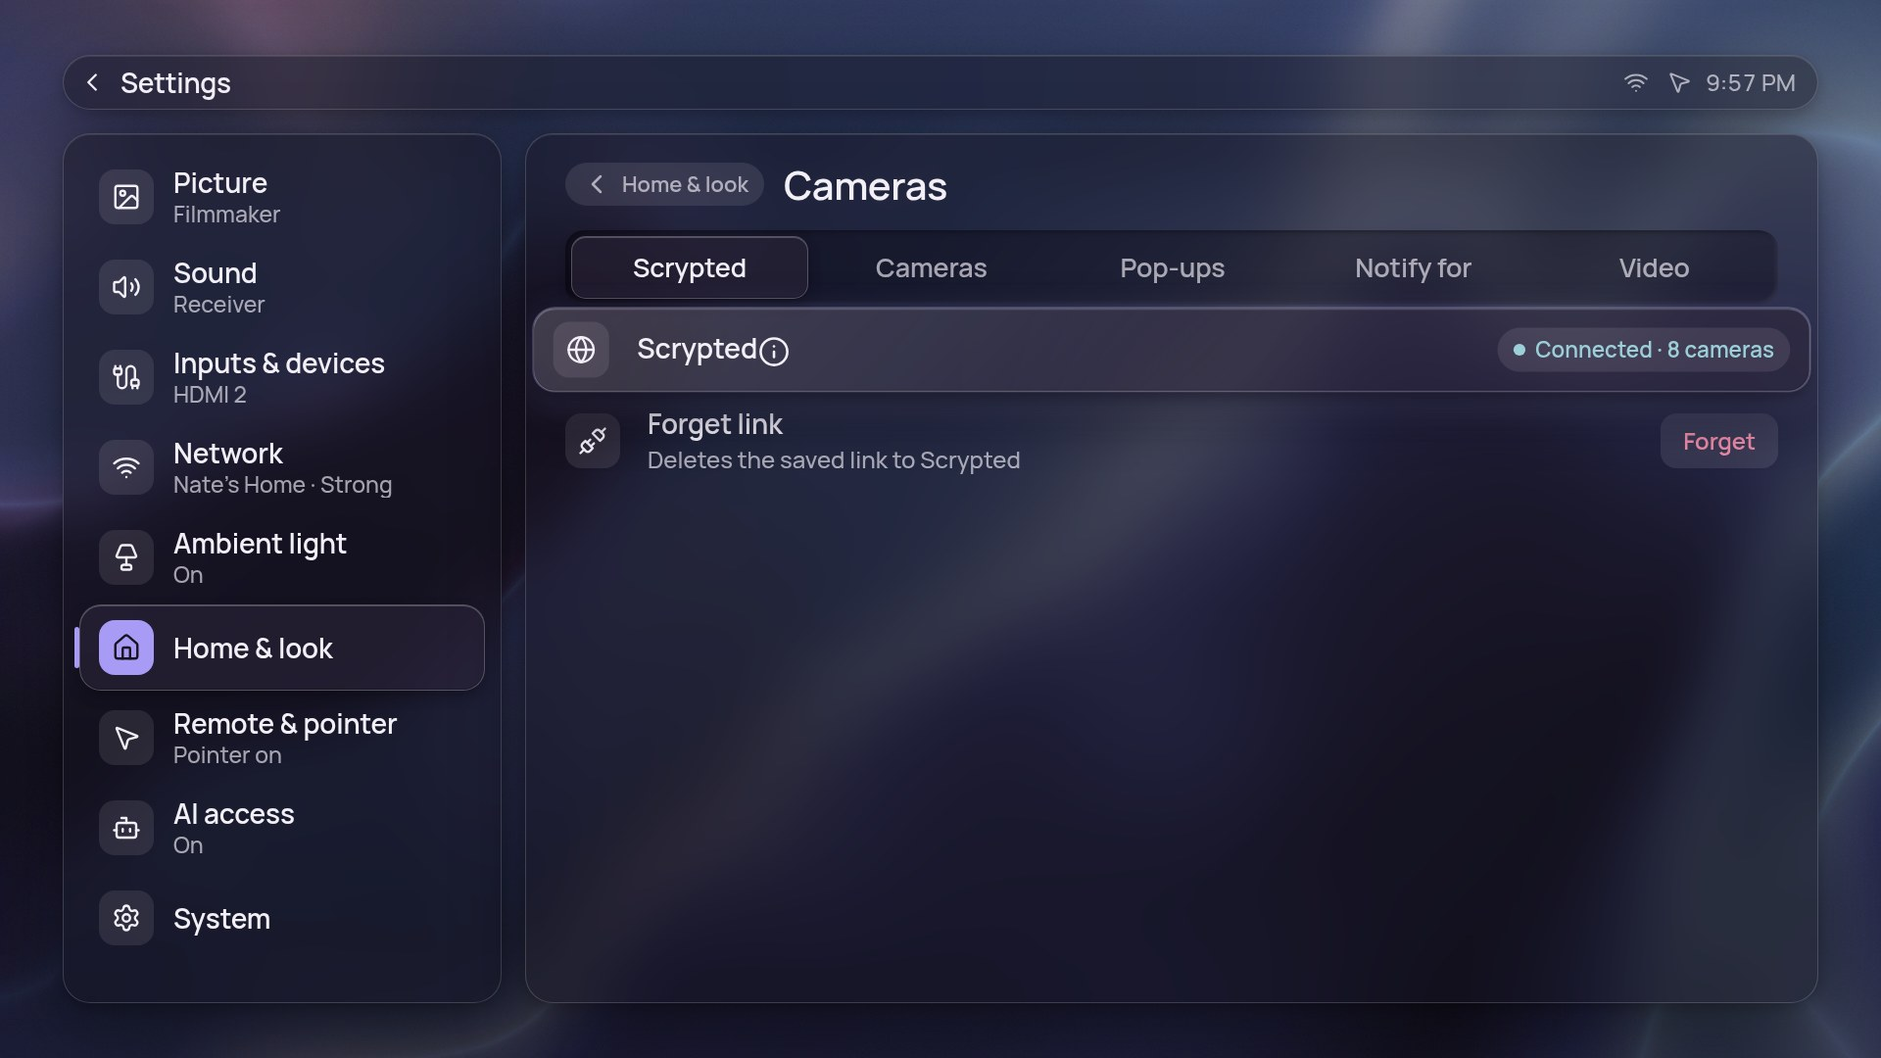
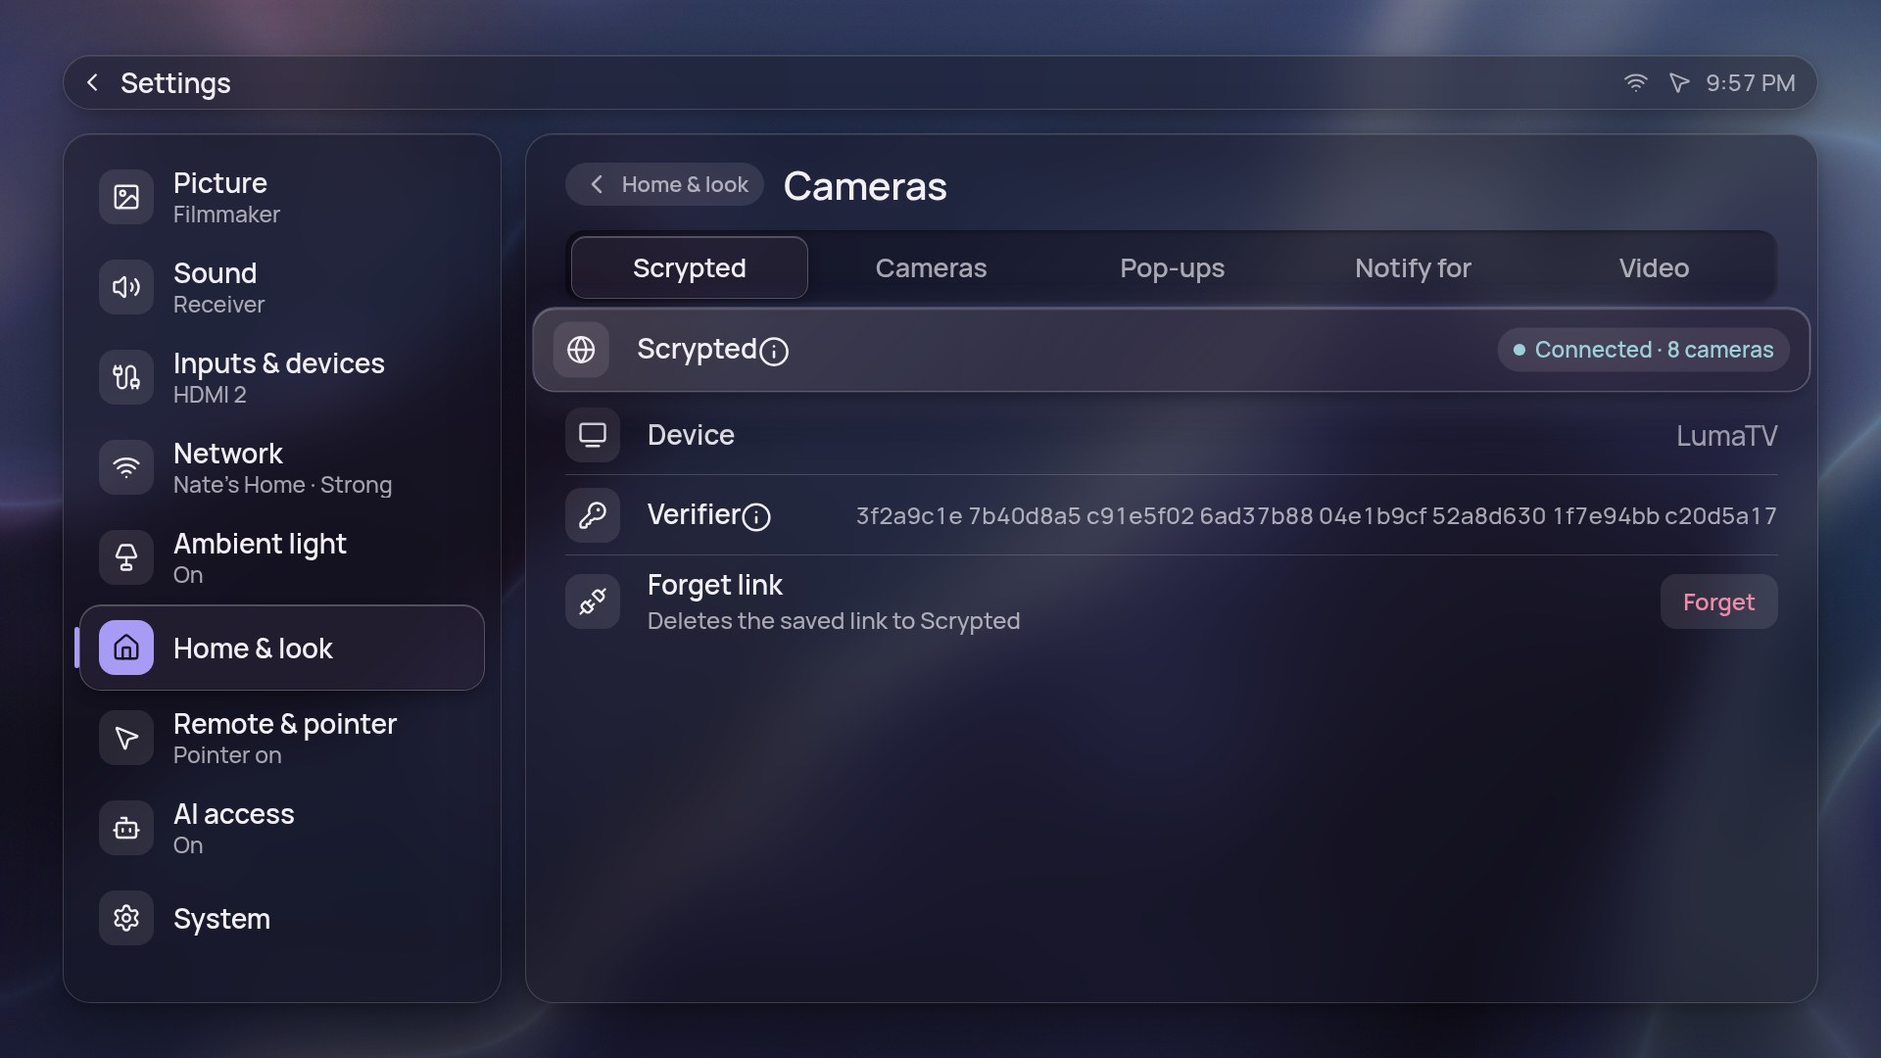
Cameras: an update of the event on the pop-up changes its words and end; the spec words the bridge's errors and shows the device name and verifier
The old pop-up takes an update (same id) as the same card with new words and a new end, and reads an event's age on the bridge's clock. The UI spec gains the words of a refusal, a stream with no resolution, a picture-less card, and the Scrypted tab's Device and Verifier rows; the mocks show them (settings, settings-refused, a picture-less event card).

Changed region(s): [[0.3125, 0.3972, 0.9375, 0.6111], [0.875, 0.55, 0.9375, 0.5806], [0.875, 0.3972, 0.9375, 0.4278]]

diff --git a/docs/mocks/cameras-scrypted/index.html b/docs/mocks/cameras-scrypted/index.html
@@ -117,6 +117,9 @@
   .card .shot .len { position: absolute; right: 12px; bottom: 12px; padding: 2px 12px; border-radius: 999px; background: var(--glass-video); color: var(--lu-ink); font-size: calc(22px * var(--ts)); font-weight: 600; }
   .card .l1 { margin-top: 10px; font-size: calc(26px * var(--ts)); font-weight: 600; line-height: 1.3; display: -webkit-box; -webkit-box-orient: vertical; -webkit-line-clamp: 2; overflow: hidden; }
   .card .l2 { font-size: calc(22px * var(--ts)); font-weight: 500; line-height: 1.3; color: var(--lu-ink-2); display: -webkit-box; -webkit-box-orient: vertical; -webkit-line-clamp: 2; overflow: hidden; }
+  .card .shot.none { background: var(--tile-ink-wash); display: grid; place-items: center; }
+  .card .shot.none .big { display: block; width: 72px; height: 72px; color: var(--lu-ink-2); }
+  .card .shot.none .big .ic { width: 72px; height: 72px; }
   .card.focus { transform: scale(1.03); }
   .card.focus .shot { border-color: var(--lu-edge-raised); box-shadow: var(--shadow-raised), var(--focus-halo); }
   .card.focus .l1 { color: var(--lu-ink); }
@@ -153,6 +156,13 @@
   .st.settings .row .d { font-size: calc(24px * var(--ts)); }
   .st.settings .tab { font-size: calc(27px * var(--ts)); min-height: 64px; height: auto; padding: 0 12px; }
   .st.settings .page-head h1 { font-size: calc(40px * var(--ts)); }
+  /* the verifier: 64 digits in groups of 8, tabular, wrapping by group so none is cut at any text size */
+  .chip.danger { color: var(--lu-danger-readable); }
+  .vf { max-width: calc(560px * var(--ts)); text-align: right; font-size: calc(24px * var(--ts)); font-weight: 500; line-height: 1.35; color: var(--lu-ink-2); }
+  .vf span { display: inline-block; white-space: nowrap; }
+  .vrow .text { flex: none; }
+  .vrow .t { white-space: nowrap; }
+  .vrow .vf { flex: 1 1 0; min-width: 0; max-width: none; }
 </style>
 </head>
 <body>
@@ -233,8 +243,8 @@
 
   /* ---------------- events / clips ---------------- */
   function cards(list, focus) {
-    return list.map((c, i) => `<div class="card${i === focus ? ' focus' : ''}"><div class="shot pic" ${cam(c.pic, c.pos)}>
-      <span class="cbadge">${ic(KIND[c.kind][0])}</span>${c.len ? `<span class="len num">${c.len}</span>` : ''}</div>
+    return list.map((c, i) => `<div class="card${i === focus ? ' focus' : ''}"><div class="shot ${c.pic ? 'pic' : 'none'}" ${c.pic ? cam(c.pic, c.pos) : ''}>
+      ${c.pic ? `<span class="cbadge">${ic(KIND[c.kind][0])}</span>` : `<span class="big">${ic(KIND[c.kind][0])}</span>`}${c.len ? `<span class="len num">${c.len}</span>` : ''}</div>
       <div class="l1">${c.l1}</div><div class="l2 num">${c.l2}</div></div>`).join('');
   }
   function sheet(title, tab, list, focus) {
@@ -246,7 +256,7 @@
     { kind: 'person', l1: 'Person', l2: '2:31 PM · 6 min ago', pic: 'game', pos: '25% 50%' },
     { kind: 'doorbell', l1: 'Doorbell rang', l2: '1:58 PM · 39 min ago', pic: 'wall', pos: '50% 40%' },
     { kind: 'animal', l1: 'Animal · Domestic Cat', l2: '12:12 PM · 2 h ago', pic: 'home', pos: '60% 50%' },
-    { kind: 'vehicle', l1: 'Vehicle', l2: '10:44 AM · 4 h ago', pic: 'still', pos: '20% 60%' },
+    { kind: 'vehicle', l1: 'Vehicle', l2: '10:44 AM · 4 h ago' },
     { kind: 'package', l1: 'Package', l2: '9:05 AM · 5 h ago', pic: 'game', pos: '80% 50%' },
   ];
   const CLIPS = [
@@ -292,9 +302,11 @@
   /* ---------------- settings pages ---------------- */
   const RAIL_HOME = () => '<nav class="pane rail" data-open="home"></nav>';
   const topbar = '<div class="pane topbar"><i data-ic="chevron-left" class="ic"></i><span class="title">Settings</span><span class="spacer"></span><span class="status"><i data-ic="wifi"></i><i data-ic="mouse-pointer-2"></i></span><span class="time num">9:57 PM</span></div>';
-  const row = (icn, t, val, extra) => `<div class="row${extra && extra.focus ? ' focusable focus' : ''}"><div class="lead">${ic(icn)}</div><div class="text"><div class="t">${t}${extra && extra.info ? '<i data-ic="info" class="info"></i>' : ''}</div>${extra && extra.d ? `<div class="d">${extra.d}</div>` : ''}</div>${val}</div>`;
+  const row = (icn, t, val, extra) => `<div class="row${extra && extra.focus ? ' focusable focus' : ''}${extra && extra.cls ? ' ' + extra.cls : ''}"><div class="lead">${ic(icn)}</div><div class="text"><div class="t">${t}${extra && extra.info ? '<i data-ic="info" class="info"></i>' : ''}</div>${extra && extra.d ? `<div class="d">${extra.d}</div>` : ''}</div>${val}</div>`;
   const tog = on => `<div class="toggle" role="switch" aria-checked="${on}"></div>`;
   const chev = t => `<div class="v">${t || ''}${ic('chevron-right')}</div>`;
+  const VERIFIER = '3f2a9c1e 7b40d8a5 c91e5f02 6ad37b88 04e1b9cf 52a8d630 1f7e94bb c20d5a17'.split(' ');
+  const verifier = `<div class="vf num">${VERIFIER.map(g => `<span>${g}</span>`).join(' ')}</div>`;
   const tabs = (names, sel) => `<div class="tabs">${names.map((n, i) => `<div class="tab" aria-selected="${i === sel}">${n}</div>`).join('')}</div>`;
   function page(title, inner, back) { return `${topbar}${RAIL_HOME()}<main class="pane page"><div class="page-head">${back ? `<span class="chip">${ic('chevron-left')}${back}</span>` : ''}<h1>${title}</h1></div><div class="page-body">${inner}</div></main>`; }
   const TABS = ['Scrypted', 'Cameras', 'Pop-ups', 'Notify for', 'Video'];
@@ -326,6 +338,15 @@
     case 'settings': video = false; backdrop = 'wall';
       html = `<div class="st on settings"><div class="wall fill"></div>` + page('Cameras', tabs(TABS, 0) + `<div class="rows">
         ${row('globe', 'Scrypted', `<div class="v"><span class="chip on"><i class="dot"></i>Connected · 8 cameras</span></div>`, { focus: true, info: true })}
+        ${row('tv-minimal', 'Device', `<div class="v">LumaTV</div>`)}
+        ${row('key-round', 'Verifier', verifier, { info: true, cls: 'vrow' })}
+        ${row('unplug', 'Forget link', `<span class="btn small danger">Forget</span>`, { d: 'Deletes the saved link to Scrypted' })}
+        </div>`, 'Home &amp; look') + '</div>'; break;
+    case 'settings-refused': video = false; backdrop = 'wall';
+      html = `<div class="st on settings"><div class="wall fill"></div>` + page('Cameras', tabs(TABS, 0) + `<div class="rows">
+        ${row('globe', 'Scrypted', `<div class="v"><span class="chip danger"><i class="dot"></i>Refused</span></div>`, { focus: true, info: true })}
+        ${row('tv-minimal', 'Device', `<div class="v">LumaTV</div>`)}
+        ${row('key-round', 'Verifier', verifier, { info: true, cls: 'vrow' })}
         ${row('unplug', 'Forget link', `<span class="btn small danger">Forget</span>`, { d: 'Deletes the saved link to Scrypted' })}
         </div>`, 'Home &amp; look') + '</div>'; break;
     case 'settings-notify': video = false; backdrop = 'wall';

diff --git a/payload/compositor/lumatv/panels/Cameras.qml b/payload/compositor/lumatv/panels/Cameras.qml
@@ -91,7 +91,16 @@ Item {
     }
     onPopupTopicChanged: {
         if (popupUp && (!popupTopic || popupTopic.id !== shownId)) hidePopup(false)   // cleared elsewhere, or replaced
+        else if (popupUp) retake()
         consider()
+    }
+    // An `update` of the event on the card (the recorder named what it saw, the detector is surer) is the same pop-up again with new words and
+    // maybe a new end: the card changes its words and is not shown again (the bridge: "never a new card").
+    function retake() {
+        popup = popupTopic
+        tick()
+        ends.interval = Math.max(500, popupTopic.untilMs - Date.now())
+        ends.restart()
     }
     // Do not disturb: a PIN, an alert, the keyboard or a panel arrives while the card is up and it steps aside, without telling the helper (it is
     // not dismissed): it is due again, and comes back when the host is free if its time (`untilMs`) is not over.
@@ -189,9 +198,11 @@ Item {
         return p.label && String(p.label).toLowerCase() !== p.kind ? w + " \u00b7 " + p.label : w
     }
     property string ago: ""
+    // an event's `at` is the bridge's clock; `cameras.now_skew_ms` is the bridge's minus this TV's
+    readonly property double skew: topic && topic.now_skew_ms ? topic.now_skew_ms : 0
     function tick() {
         if (!popup) { ago = ""; return }
-        var s = Math.max(0, Math.round((Date.now() - popup.at) / 1000))
+        var s = Math.max(0, Math.round((Date.now() + skew - popup.at) / 1000))
         ago = s < 60 ? "Just now" : Math.round(s / 60) + " min ago"
     }
     Timer { interval: 30000; repeat: true; running: cams.popupUp; onTriggered: cams.tick() }

diff --git a/tests/test_camera_popup.py b/tests/test_camera_popup.py
@@ -240,5 +240,31 @@ class CameraPopup(HostCase):
         self.assertEqual(self.tagged(out, "w2")[0], {"animal": "Animal", "named": "Animal \u00b7 Domestic Cat", "bell": "Doorbell rang"})
 
 
+    def test_an_update_of_the_event_on_the_card_changes_its_words_and_its_end_and_is_not_a_second_popup(self):
+        # the bridge's story: `update` carries the same id with a label or a better score; the helper publishes the same pop-up again. The steps are
+        # far enough apart that a slow poll (the host builds Home in the background) does not fold the two records into one.
+        steps = [(READY, publish("cameras", CAMERAS)),
+                 (READY + 300, popup(lasts=4500)),                                      # ends at READY + 4800
+                 (READY + 1700, "var c = %s; console.info('[u1] ' + JSON.stringify({mode: c.mode, what: c.kindWord(c.popup), shown: c.shownId, at: c.shownAt}));" % C),
+                 (READY + 2000, popup(kind="animal", label="Domestic Cat", lasts=7000)),  # the update: ends at READY + 9000
+                 (READY + 3200, "var c = %s; console.info('[u2] ' + JSON.stringify({mode: c.mode, what: c.kindWord(c.popup), shown: c.shownId, at: c.shownAt}));" % C),
+                 (READY + 6000, "var c = %s; console.info('[u3] ' + JSON.stringify({mode: c.mode, what: c.kindWord(c.popup)}));" % C)]
+        doc, out = self.run_overlay(steps, READY + 10000)
+        u1, u2, u3 = self.tagged(out, "u1")[0], self.tagged(out, "u2")[0], self.tagged(out, "u3")[0]
+        self.assertEqual((u1["mode"], u1["what"]), ("popup", "Person"), out[-2500:])
+        self.assertEqual((u2["mode"], u2["what"]), ("popup", "Animal \u00b7 Domestic Cat"), "the card up has the new words")
+        self.assertEqual((u2["shown"], u2["at"]), (u1["shown"], u1["at"]), "the same pop-up: shown once, not again")
+        self.assertEqual((u3["mode"], u3["what"]), ("popup", "Animal \u00b7 Domestic Cat"), "the original end has passed: the update's later end holds")
+        self.assertEqual(doc["mode"], "", "and it goes at the new end")
+
+    def test_how_long_ago_follows_the_bridges_clock_when_it_is_not_this_tvs(self):
+        ahead = dict(CAMERAS, now_skew_ms=180000)         # the bridge's clock is three minutes ahead: an event it stamps 175 s ahead of this clock is 5 s old
+        steps = [(READY, publish("cameras", ahead)),
+                 (READY + 300, popup(age=-175000, lasts=20000)),
+                 (READY + 1500, "var c = %s; console.info('[k1] ' + JSON.stringify({ago: c.ago}));" % C)]
+        doc, out = self.run_overlay(steps, READY + 2200)
+        self.assertEqual(self.tagged(out, "k1")[0]["ago"], "Just now", out[-2500:])
+
+
 if __name__ == "__main__":
     unittest.main()

diff --git a/docs/research/cameras-ui-spec.md b/docs/research/cameras-ui-spec.md
@@ -35,13 +35,14 @@ kept in memory, so the grid paints them in its first frame. What draws a picture
 | Source | Fields used |
 |---|---|
 | topic `cameras` | `state`, `reason`, `now_skew_ms`; per camera `id`, `name`, `room`, `online`, `live`, `recordings`, `events`, `clips`, `since`, `native`, `prebuffered`; already ordered and filtered by the `show` setting |
-| topic `cameras.popup` | `id`, `event`, `camera`, `name`, `kind`, `label`, `at`, `untilMs`, `seq`; an update re-publishes the same `id` with new words and `seq` |
+| topic `cameras.popup` | `id`, `event`, `camera`, `name`, `kind`, `label`, `at`, `untilMs`, `seq`; an event's story (`new`, `update`, `end`) has one id, which is also its picture's: an `update` re-publishes the same `id` with new words and `seq` and is never a new pop-up |
 | topic `cameras.live` | `camera`, `mode` (`live`, `playback`, `clip`), `state` (`asking`, `starting`, `playing`, `failed`, `stopped`), `reason`, `codec`, `width`, `height`, `fps`, `positionMs`, `rate`, `paused` |
-| topic `cameras.events` | the last 30 pushed events, newest first, with `phase`; `end` phases and repeats of one `id` are not cards |
+| topic `cameras.events` | the last 30 pushed events, newest first, with `phase`; one card per event `id`, from its newest `new` or `update` entry; `end` entries make no card; `score` may be absent and is not read |
 | `GET /v1/cameras/{id}/frame?w=&h=` | 200 picture, else 404 `no_picture` or 503 `not_connected`; a still is never older than 10 s |
 | `.../recordings`, `.../events`, `.../clips` | ranges, `unknown`, ticks, clips (3.4); `.../thumbnail`, `.../clip-thumbnail`, `.../events/{event}/thumbnail` for pictures |
-| `POST /v1/cameras/live`, `/playback`, `/live/stop`, `/live/pause`, `/popup/clear` | a refusal is HTTP 409 `{error: {code, message}}` and leaves the running session alone; the words are shown for 3 s |
+| `POST /v1/cameras/live`, `/playback`, `/live/stop`, `/live/pause`, `/popup/clear` | a refusal is HTTP 409 `{error: {code, message}}` and leaves the running session alone; its words (table under "Words of a refusal") are shown for 3 s |
 | `GET` and `POST /v1/settings/scrypted-cameras` | the page of 3.5; choices at `/v1/plugins/scrypted-cameras/choices/{cameras or kinds}`; forget at `POST /v1/plugins/scrypted-cameras/actions/forget` |
+| facts `plugin.scrypted-cameras.link`, `.device`, `.verifier` | the connection in words; the TV's name for the bridge's Devices group; the SHA-256 of the TV's own token as 64 hexadecimal digits (a hash, never the token, an address or the pin); the last two exist while a link does |
 
 ## The pop-up
 
@@ -80,13 +81,29 @@ The camera on the whole screen, fitted. The picture is a hole (the layer is tran
 when an app is in front, it is stills (1280 by 720, the next ask 125 ms after the last). Over an app live video is offered only when `theme.cameras.liveOverApps` is true (check C12); the strip, the sheet and
 playback are then not offered. Over Home the live stream is asked on opening and at every switch (`POST live {camera}`; the answer is the `cameras.live` topic).
 
-- **Name pill**, top left: `video`, the name, the state (the live dot and "Live", "Starting", "Recorded", "Can't play"), "2 of 8". **Info pill**, top right: `3840×2160 · H.265 · 15 fps` from the stream (`native` until it plays).
+- **Name pill**, top left: `video`, the name, the state (the live dot and "Live", "Starting", "Recorded", "Can't play"), "2 of 8". **Info pill**, top right: `3840×2160 · H.265 · 15 fps` from the stream (`native` until it plays); a member the stream does not give is left out, and with none the pill is not drawn.
   A stream that is not prebuffered says "Opens in a few seconds" while it starts. While starting and failing and when stills only, a stills backdrop shows (4 a second); a prebuffered start is black until it plays.
 - **Hints**, bottom right, only when the strip and the sheet are closed: Left and Right `video` (when there is more than one camera), Up `history` (when the camera records and live video is on), Down `list-video` (when it has
   events or clips and live video is on), OK `layout-grid` (more than one camera), Back `close`.
 - **Keys with the chrome up:** Left and Right the previous and next camera (wrapping); Up the strip; Down the sheet; OK the grid; Back, in order: a playback goes live, else the view closes. With the chrome hidden a
   key other than Back only reveals it. A new camera or a close tears the session down off the UI path (`live/stop`).
-- **Failure:** `state: failed` shows a note over a dimmed backdrop: "Can't play this camera", the reason's words, a `Try again` button (OK), Back closes. A recording that ends (`stopped`, "End of recording") asks live again by itself.
+- **Failure:** `state: failed` shows a note over a dimmed backdrop: "Can't play this camera", the reason's words, a `Try again` button (OK, which asks again at once: a stream address lives 25 to 60 s, so a retry always asks for a new one), Back closes.
+  A recording that ends (`stopped`, "End of recording") asks live again by itself. A stream the bridge ended because the device was removed shows the same note and the grid's state turns to `refused`.
+
+### Words of a refusal
+
+A refusal of a `POST` (the bridge's `error.code`, passed through by the helper) is a toast of one line for 3 s over the screen it came from; the picture goes on as it was. A code this table lacks shows the helper's own words.
+
+| Code | Words |
+|---|---|
+| `offline` (409) | The camera is offline |
+| `not_supported` (501) | No stream fits this TV |
+| `no_recording` | No recording at that time |
+| `camera_not_found` (404) | Scrypted no longer shares this camera |
+| `busy` (429) | Scrypted is busy |
+| `timeout` | Scrypted didn't answer |
+| `upstream_error` (502) | Scrypted couldn't start it |
+| `event_not_found` (404, a picture) | no words: the card has no picture and says nothing about it |
 
 ## The strip
 
@@ -111,13 +128,14 @@ Up opens it over the picture: a glass panel from the safe edges, three rows of f
 Down opens a lower pane over the picture (full view) or over the grid (`Events`, every camera). Title (the camera's name, or "Recent events"), tabs `Events` and `Clips` (the camera's own; none in the recent list), a row of cards, 352 by 198 pictures with
 the kind's glyph at the corner and, for a clip, its length; under the picture the title (two lines at most) and "2:31 PM · 6 min ago". Four cards show; a `chevron-right` says there are more; Left and Right move, Up to the tabs, Down returns,
 OK plays (a clip: `POST playback {camera, clip}`; an event with a recording: `{camera, at}` three seconds before; an event without one only turns to the camera), Back closes. Events come from `/events` for the last 24 h (up to 30, shown newest first),
-clips from `/clips`, the recent list from `cameras.events`. Pictures: `/thumbnail?at=`, `/clip-thumbnail?clip=` (the clip's id is percent-encoded), `/events/{event}/thumbnail`; a card loads its picture only when it shows.
+clips from `/clips`, the recent list from `cameras.events`. Pictures: `/thumbnail?at=`, `/clip-thumbnail?clip=` (the clip's id is percent-encoded), `/events/{event}/thumbnail`; a card loads its picture only when it shows; a picture that is gone or never came (`event_not_found`, `has_thumbnail` false, an event with no thumbnail) leaves the card as the kind's glyph on a quiet tile, never a blank or a made-up picture.
 
 ## The Settings page
 
 Home & look, Cameras; tabs `Scrypted`, `Cameras`, `Pop-ups`, `Notify for`, `Video`, drawn from the schema of 3.5 (`PluginRows` rules: bool is a switch, integer a slider, a list of choices rows with a check, the order picked shown as a number).
 
-- **Scrypted:** the connection (chip with the state's words, "Connected · 8 cameras") with its help behind the info mark ("Linked from a shell on the TV with `lumatv-helper scrypted-link`"), and `Forget link` (a second OK, "Sure?", six seconds, as the Home Assistant page).
+- **Scrypted:** the connection (chip with the state's words, "Connected · 8 cameras") with its help behind the info mark ("Linked from a shell on the TV with `lumatv-helper scrypted-link`"); while a link exists, `Device` (the TV's name) and `Verifier` (its 64 digits in groups of 8, tabular, second ink, wrapping by group so that none is cut at 200 % text), whose help says where they go ("Type this name and verifier into the bridge's Devices in Scrypted. The verifier is a hash; the token never leaves the TV.");
+  and `Forget link` (a second OK, "Sure?", six seconds, as the Home Assistant page). With no link the chip says "Not linked" and there are no other rows. `refused` shows the same rows with the chip in the danger tone: the TV is not (or no longer) in the bridge's Devices, and the name and verifier are what to add again.
 - **Notify for:** one row per camera with the kinds as its value ("Person, Doorbell", "Off"), opening a page with a switch per kind (Person, Vehicle, Animal, Package, Doorbell, Motion); defaults person and doorbell. The page is rebuilt when `revision` changes.
 - **Video:** `Live quality` Full, Medium, Low and `Grid` Light, Balanced, Smooth as two-to-three option segments.
 
@@ -132,6 +150,7 @@ Axis at 2:37 PM, 12-hour: 15 min "2:24 PM", "2:27 PM", "2:30 PM", "2:33 PM", "2:
 24 h "4:00 PM", "8:00 PM", "12:00 AM", "4:00 AM", "8:00 AM", "12:00 PM". Ticks fall on the local clock.
 
 Gaps: with `ranges` [now-50 min, now-10 min] and [now-8 min, now], `unknown` [now-10 min, now-8 min] in a 1 h window ending now, the only gap is the first 10 minutes; with `since` = now-50 min there is none; the part of a window after now is no gap.
+Update: a pop-up shown with id 41 (person), then a record with id 41 (animal, label "Domestic Cat", later `untilMs`): the card up reads "Animal · Domestic Cat", is not shown again (no second `popupShown`), and ends at the later time.
 Jump to event: from 2:20 PM with events at 1:58, 2:12 and 2:31 PM, next is 2:31, previous 2:12; standing on 2:12 (within 1 s) next is 2:31 and previous 1:58.
 
 ## Not built
